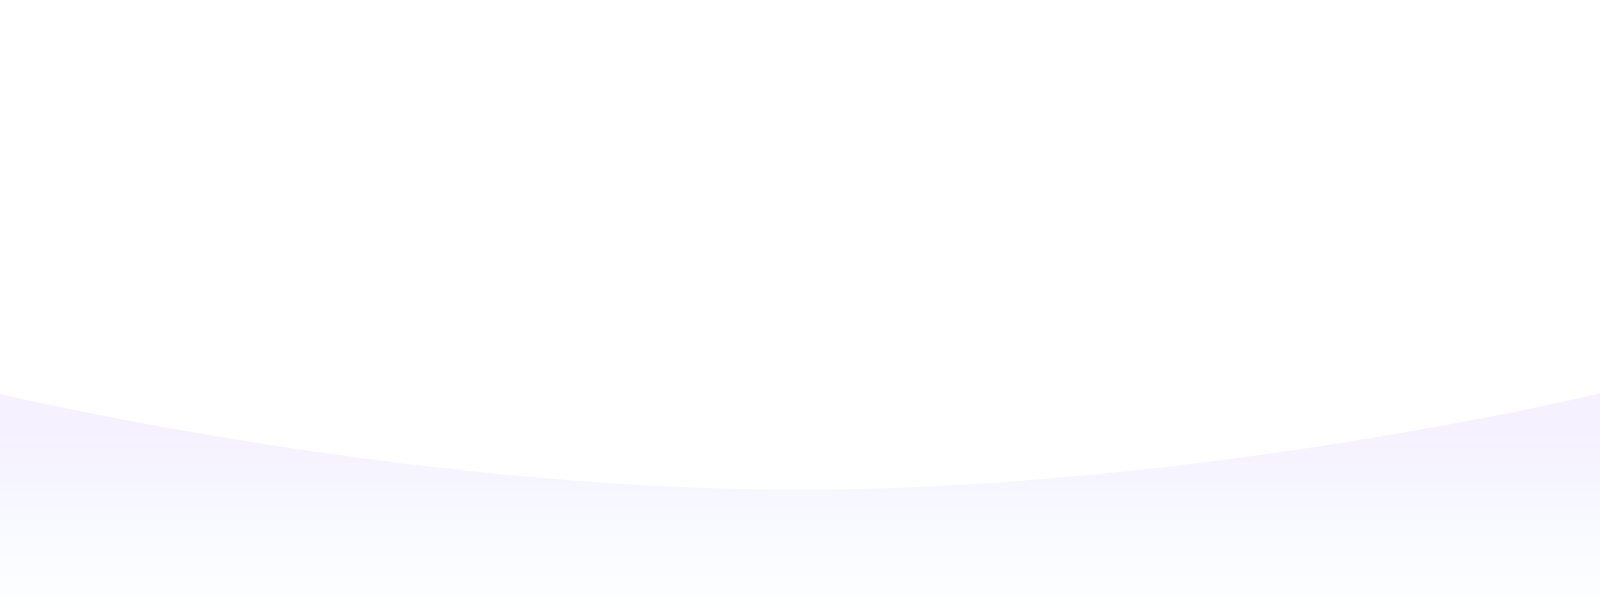
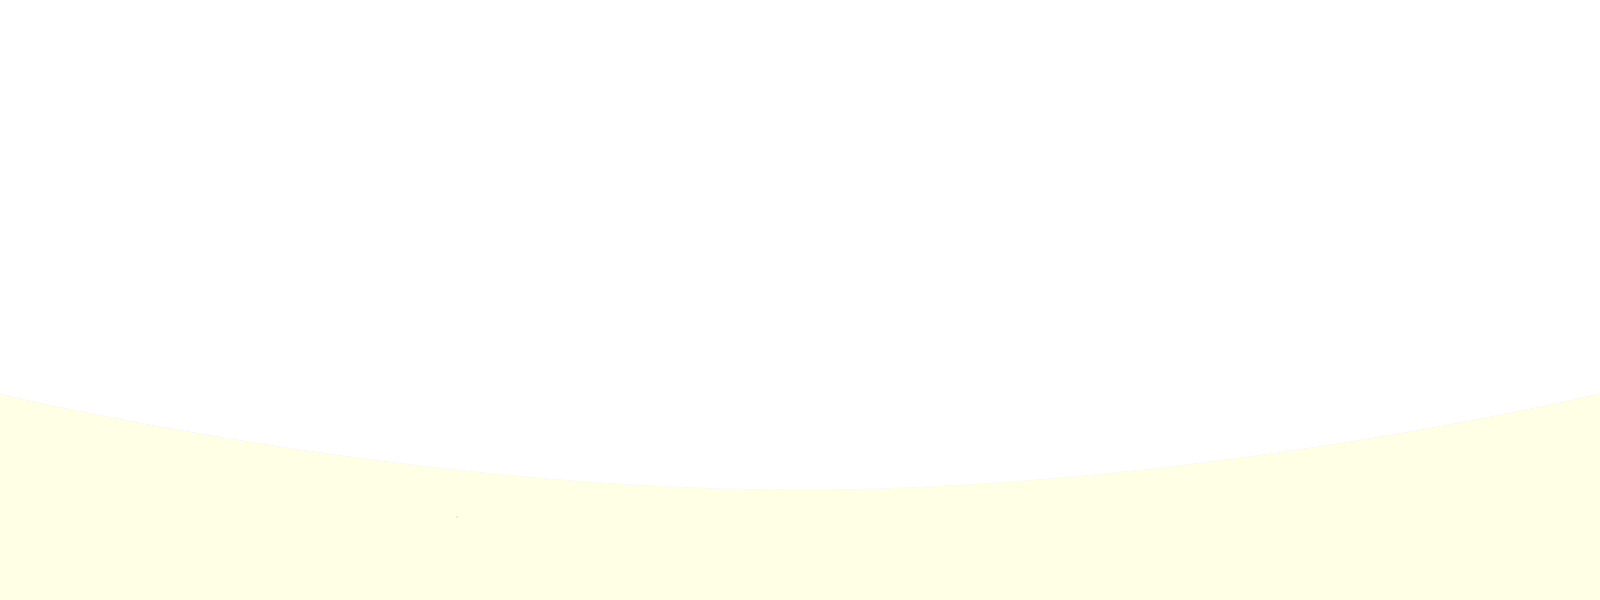
added Changes to Contact Us Section

Changed region(s): [[0.0, 0.66, 1.0, 1.0]]

diff --git a/css/sofbox-style.css b/css/sofbox-style.css
@@ -107,7 +107,7 @@ table td, table th { border: 1px solid #eaeaea; padding: 5px 8px; text-align: ce
 
 /* Form */
 label { color: #1e1e1e; margin-bottom: 0; }
-input, input[type=text], input[type=email], input[type=search], input[type=password], textarea { width: 100%; float: left; padding: 0 15px; height: 48px; line-height: 48px; background: #ffffff; border: 1px solid #eff1fe; -webkit-border-radius: 4px; -moz-border-radius: 4px; border-radius: 4px; color: #8e989f; transition: all 0.5s ease-in-out; transition: all 0.5s ease-in-out; -moz-transition: all 0.5s ease-in-out; -ms-transition: all 0.5s ease-in-out; -o-transition: all 0.5s ease-in-out; -webkit-transition: all 0.5s ease-in-out; }
+input, input[type=text], input[type=email], input[type=search], input[type=password], textarea { width: 100%; float: left; padding: 0 15px; height: 48px; line-height: 48px; background: #ffffff; border: 1px solid #F2C74A; -webkit-border-radius: 4px; -moz-border-radius: 4px; border-radius: 4px; color: #8e989f; transition: all 0.5s ease-in-out; transition: all 0.5s ease-in-out; -moz-transition: all 0.5s ease-in-out; -ms-transition: all 0.5s ease-in-out; -o-transition: all 0.5s ease-in-out; -webkit-transition: all 0.5s ease-in-out; }
 select { border: 1px solid rgba(36, 38, 43, 0.14); background: #ffffff; line-height: 48px; height: 48px; padding: 0 10px; width: 100%; color: #8e989f; -webkit-border-radius: 0; -moz-border-radius: 0; border-radius: 0; transition: all 0.5s ease-in-out; -moz-transition: all 0.5s ease-in-out; -ms-transition: all 0.5s ease-in-out; -o-transition: all 0.5s ease-in-out; -webkit-transition: all 0.5s ease-in-out; }
 textarea { padding: 0 15px; height: 150px; -webkit-border-radius: 4px; -moz-border-radius: 4px; border-radius: 4px; }
 input:focus, input[type=text]:focus, input[type=email]:focus, input[type=search]:focus, input[type=password]:focus, textarea:focus, select:focus { border-color: var(--primary-color); box-shadow: none; outline: none; }
@@ -161,7 +161,7 @@ article.hentry.format-video .consult-detail p { margin-bottom: 0; }
 -----------------------------------------------------------------------*/
 .error-bg { float: left; width: 100%; display: block; }
 .error-404 .big-text { font-size: 240px; font-family: 'Now', sans-serif;; line-height: 240px; color: #1e1e1e; font-weight: normal; }
-.sofbox-gradient-bg-top:before ,.sofbox-gradient:before{content: ""; background: -webkit-gradient(linear, left top, left bottom, color-stop(0%, #f5f2ff), color-stop(60%, #ffffff)); background: -moz-linear-gradient(top, rgba(50, 119, 247, 0.08) 0, #ffffff 60%); background: -webkit-linear-gradient(top, rgba(50, 119, 247, 0.08) 0, #ffffff 60%); background: -o-linear-gradient(top, rgba(50, 119, 247, 0.08) 0, #ffffff 60%); background: -ms-linear-gradient(top, rgba(50, 119, 247, 0.08) 0, #ffffff 60%); background: linear-gradient(top, rgba(50, 119, 247, 0.08) 0, #ffffff 60%); position: absolute; width: 100%; height: 100%; top: 0; left: 0; z-index: -1; }
+.sofbox-gradient-bg-top:before ,.sofbox-gradient:before{content: ""; background: -webkit-gradient(linear, left top, left bottom, color-stop(0%, #f5f2ff), color-stop(60%, #ffffff)); background: -moz-linear-gradient(top, rgba(187, 187, 187, 0.5) 0, #ffffff 60%); background: -webkit-linear-gradient(top, rgba(187, 187, 187, 0.5) 0, #ffffff 60%); background: -o-linear-gradient(top, rgba(187, 187, 187, 0.5) 0, #ffffff 60%); background: -ms-linear-gradient(top, rgba(187, 187, 187, 0.5) 0, #ffffff 60%); background: linear-gradient(top, rgba(187, 187, 187, 0.5) 0, #ffffff 60%); position: absolute; width: 100%; height: 100%; top: 0; left: 0; z-index: -1; }
 .sofbox-gradient-bg-dark, .sofbox-gradient-bg-top, .sofbox-gradient-bg-bottom,.sofbox-gradient { position: relative; }
 .sofbox-gradient-bg-dark:before {content: ""; background: -webkit-gradient(linear, left top, left bottom, color-stop(0%, rgba(50, 119, 247, 0.08)), color-stop(60%, #ffffff)); background: -moz-linear-gradient(top, rgba(50, 119, 247, 0.08) 80%, #ffffff 100%); background: -webkit-linear-gradient(top, rgba(50, 119, 247, 0.08) 80%, #ffffff 100%); background: -o-linear-gradient(top, rgba(50, 119, 247, 0.08) 80%, #ffffff 100%); background: -ms-linear-gradient(top, rgba(50, 119, 247, 0.08) 80%, #ffffff 100%); background: linear-gradient(top, rgba(50, 119, 247, 0.08) 80%, #ffffff 100%); position: absolute; width: 100%; height: 100%; top: 0; left: 0; z-index: -1; }
 .sofbox-gradient-bg-bottom { background: -webkit-gradient(linear, left top, left bottom, color-stop(0%, rgba(50, 119, 247, 0.08)), color-stop(60%, #ffffff)); background: -moz-linear-gradient(bottom, rgba(50, 119, 247, 0.08) 0, #ffffff 60%); background: -webkit-linear-gradient(bottom, rgba(50, 119, 247, 0.08) 0, #ffffff 60%); background: -o-linear-gradient(bottom, rgba(50, 119, 247, 0.08) 0, #ffffff 60%); background: -ms-linear-gradient(bottom, rgba(50, 119, 247, 0.08) 0, #ffffff 60%); background: linear-gradient(bottom, rgba(50, 119, 247, 0.08) 0, #ffffff 60%); }
@@ -1575,7 +1575,7 @@ Advance-Feature
 .advance-feature [type="checkbox"]:checked + label,.advance-feature [type="checkbox"]:not(:checked) + label { position: relative; padding-left: 28px; cursor: pointer; line-height: 20px; display: inline-block; color: #666; }
 .advance-feature [type="checkbox"]:checked + label:before,.advance-feature [type="checkbox"]:not(:checked) + label:before { content: ''; position: absolute; left: 0; top: 0; width: 20px; height: 20px; border: 2px solid var(--primary-color); background: #fff; border-radius: 90px; }
 .advance-feature [type="checkbox"]:checked + label:after,.advance-feature [type="checkbox"]:not(:checked) + label:after { content: ''; width: 4px; height: 4px; background: var(--primary-color); position: absolute; top: 8px; left: 8px; border-radius: 90px; -webkit-transition: all 0.2s ease; transition: all 0.2s ease; }
-.advance-feature .form-control:disabled, .advance-feature .form-control[readonly] { background: #ffffff; border-radius: 4px; }
+.advance-feature .form-control:disabled, .advance-feature .form-control[readonly] { background: #ffffff; border-radius:4px; }
 .advance-feature [type="checkbox"]:not(:checked) + label:after { opacity: 0; -webkit-transform: scale(0); transform: scale(0); }
 .advance-feature [type="checkbox"]:checked + label:after { opacity: 1; -webkit-transform: scale(1); transform: scale(1); }
 
@@ -1701,16 +1701,16 @@ Job details
 -----------------------------------------------------------------------*/
 .share-social li a {width: 40px;
     height: 40px;
-    line-height: 40px; display: inline-block; color: var(--primary-color); -webkit-transition: all 0.25s ease-in-out 0s; -moz-transition: all 0.25s ease-in-out 0s; transition: all 0.25s ease-in-out 0s; }
+    line-height: 40px; display: inline-block; color: var(--secondary-color); -webkit-transition: all 0.25s ease-in-out 0s; -moz-transition: all 0.25s ease-in-out 0s; transition: all 0.25s ease-in-out 0s; }
 .share-social li:hover a { color: #ffffff; }
-.share-social li { display: inline-block !important; width: 40px; height: 40px; line-height: 40px; border-radius: 4px; text-align: center; margin-right: 10px; -webkit-transition: all 0.25s ease-in-out 0s; -moz-transition: all 0.25s ease-in-out 0s; transition: all 0.25s ease-in-out 0s; background: #ffffff; border: 1px solid rgba(0, 0, 0, 0.05); }
+.share-social li { display: inline-block !important; width: 40px; height: 40px; line-height: 40px; border-radius: 40px; text-align: center; margin-right: 10px; -webkit-transition: all 0.25s ease-in-out 0s; -moz-transition: all 0.25s ease-in-out 0s; transition: all 0.25s ease-in-out 0s; background: rgb(242, 199, 74); border: none; }
 .deatils-social span { color: #1e1e1e ;font-family: 'Now'; }
 .share-social li:hover { background-size: 200% auto; background-image: linear-gradient(to right, var(--linear-color-1) 0%, var(--linear-color-2) 51%, var(--linear-color-3) 100%); box-shadow: var(--primary-box-shadow); }
 
 /*---------------------------------------------------------------------
 Careers
 -----------------------------------------------------------------------*/
-.iq-accordion.career-style .active-faq .row { background: #eff1fe; padding: 10px; border-radius: 4px; }
+.iq-accordion.career-style .active-faq .row { background: #f2c74a; padding: 10px; border-radius: 4px; }
 .iq-accordion.career-style .active-faq a.accordion-title { color: #1e1e1e; padding-left: 0px; text-decoration: none; }
 .iq-accordion.career-style .iq-accordion-block { margin-bottom: 30px; }
 .iq-accordion.career-style .iq-accordion-block .accordion-title span { font-size: 20px;  font-family: 'Now'; display: table-cell; }

diff --git a/index-7.html b/index-7.html
@@ -511,7 +511,7 @@
 		--><rs-layer
 		id="slider-3-slide-3-layer-7"
 		data-type="text"
-		data-color="#F29A49"
+		data-color="#1e1e1e"
 		data-rsp_ch="on"
 		data-xy="xo:49px,49px,-82px,-76px;yo:261px,261px,182px,113px;"
 		data-text="w:normal;s:16,16,20,12;l:45,45,24,14;a:center;"
@@ -521,14 +521,14 @@
 		data-frame_0="sX:0.9;sY:0.9;"
 		data-frame_1="st:3030;sp:1000;sR:3030;"
 		data-frame_999="o:0;st:w;sR:4970;"
-		data-frame_hover="c:#fff;bgc:#F29A49;bor:90px,90px,90px,90px;"
-		style="z-index:12;background-color:#ffffe6;font-family:Roboto;cursor:pointer;"
+		data-frame_hover="box-shadow:0px 10px 20px 0px rgba(242, 199, 74, 0.5)"
+		style="z-index:12;background-color:#f2c74a;font-family:Roboto;cursor:pointer;"
 		><i class="fa fa-facebook" aria-hidden="true"></i>
 		</rs-layer><!--
 		--><rs-layer
 		id="slider-3-slide-3-layer-8"
 		data-type="text"
-		data-color="#F29A49"
+		data-color="#1e1e1e"
 		data-rsp_ch="on"
 		data-xy="xo:49px,49px,-115px,-80px;yo:322px,322px,241px,148px;"
 		data-text="w:normal;s:16,16,20,12;l:45,45,24,14;a: center;"
@@ -538,14 +538,14 @@
 		data-frame_0="sX:0.9;sY:0.9;"
 		data-frame_1="st:3010;sp:1000;sR:3010;"
 		data-frame_999="o:0;st:w;sR:4990;"
-		data-frame_hover="c:#fff;bgc:#F29A49;bor:90px,90px,90px,90px;"
-		style="z-index:10;background-color:#ffffe6;font-family:Roboto;cursor:pointer;"
+		data-frame_hover="box-shadow:0px 10px 20px 0px rgba(242, 199, 74, 0.5)"
+		style="z-index:10;background-color:#f2c74a;font-family:Roboto;cursor:pointer;;"
 		><i class="fa fa-linkedin" aria-hidden="true"></i>
 		</rs-layer><!--
 		--><rs-layer
 		id="slider-3-slide-3-layer-9"
 		data-type="text"
-		data-color="#F29A49"
+		data-color="#1e1e1e"
 		data-rsp_ch="on"
 		data-xy="xo:49px,49px,-89px,-68px;yo:199px,199px,116px,72px;"
 		data-text="w:normal;s:16,16,20,12;l:45,45,24,14;a:center;"
@@ -555,8 +555,8 @@
 		data-frame_0="sX:0.9;sY:0.9;"
 		data-frame_1="st:3030;sp:1000;sR:3030;"
 		data-frame_999="o:0;st:w;sR:4970;"
-		data-frame_hover="c:#fff;bgc:#F29A49;bor:90px,90px,90px,90px;"
-		style="z-index:11;background-color:#ffffe6;font-family:Roboto;cursor:pointer;"
+		data-frame_hover="box-shadow:0px 10px 20px 0px rgba(242, 199, 74, 0.5)"
+		style="z-index:11;background-color:#f2c74a;font-family:Roboto;cursor:pointer;"
 		><i class="fa fa-twitter" aria-hidden="true"></i>
 		</rs-layer><!--
 		--><rs-layer
@@ -1123,13 +1123,12 @@
 			<div class="col-lg-12">
 				<div class="title-box">
 					<h2>Contact Us</h2>
-					<p>If you are planning on developing a product landing.</p>
-				</div>
+                </div>
 			</div>
 		</div>
 		<div class="row">
 			<div class="col-lg-6">
-			    <img class="img-fluid" src="images/home-1/WhatsBusy_logo.png" alt="img" width="80" height="90">
+			    <img class="img-fluid" src="images/home-1/WhatsBusy_logo.png" alt="img" width="100" height="100">
 					<h5 class="mb-3 mt-5">12 Water Mark Way, The Woodlands, TX 77381</h5>
 					<p class="mb-0">+1 415 797 4210</p>
 					<p class="mb-0">
@@ -1148,22 +1147,21 @@
 			<div class="col-lg-6">
 				<div class="">
 					<h4 class="mb-4">Get in Touch</h4>
-					<form  class="contact-form" method="POST" action ="?" >
+					<form  class="contact-form" method="POST" action ="https://formspree.io/xknpwvbo" >
 						<div class="row">
-							<div class="col-lg-6">  <input type="text" class="form-control" id="inputName" placeholder="Your Name" required> </div>
-							<div class="col-lg-6">   <input type="Email" class="form-control" id="inputEmail" placeholder="Your Email" required></div>
-							<div class="col-lg-12">  <input type="text" class="form-control" id="inputSubject" placeholder="Your Subject" required></div>
-							<div class="col-lg-12"> <textarea class="form-control" id="exampleFormControlTextarea1" rows="7" placeholder="Your Message" required></textarea>
-							</div>
+							<div class="col-sm-6"><input type="text" class="form-control" id="inputName" placeholder="Your Name" required name="_name"> </div>
+							<div class="col-sm-6"><input type="Email" class="form-control" id="inputEmail" placeholder="Your Email" required name="_email"></div>
+							<div class="col-sm-12"><input type="text" class="form-control" id="inputSubject" placeholder="Your Subject" required name="_subject"></div>
+							<div class="col-sm-12"><textarea class="form-control" id="exampleFormControlTextarea1" rows="7" placeholder="Your Message" required name="_comments"></textarea></div>
 						<div class="row">
 	                    <div class="col-md-12">
 							<div class="form-group">
 								<div class="g-recaptcha" data-sitekey="6Le-m8oZAAAAAFLlQR_N8MGo8u49T2H4hkmRLUHv"></div>
 							</div>
 						</div>
-					</div>
+						</div>
 							<div class="col-lg-12">
-								<a class="button" href="">Send Message</a>
+								<input type="submit" value="Send Message"></input>
 							</div>
 						</div>
 					</form>
@@ -1178,7 +1176,7 @@
 <footer id="iq-contact" class="iq-footer footer-shap footer-one iq-over-dark-90 position-relative">
 	<div class="container">
 		<div class="footer-top">
-			<div class="row align-items-center sofbox-subscribe">
+			<!--<div class="row align-items-center sofbox-subscribe">
 				<div class="col-lg-5   col-sm-12 title-fancy mb-5 mb-lg-0">
 					<h4 class="footer-title">Ready to get started?</h4>
 					<p class="mb-0">It is a long established fact that a page when looking at its layout.</p>
@@ -1187,7 +1185,7 @@
 					<input type="Email" class="form-control" id="inputEmail" placeholder="Your Email">
 					<a class="button sign-btn" href="">Sign up</a>
 				</div>
-			</div>
+			</div>--!>
 		</div>
 		<div class="row">
 			<div class="col-lg-5 col-md-6 col-sm-6 ">

diff --git a/css/typography.css b/css/typography.css
@@ -57,7 +57,7 @@ import Css
   --linear-color-2: rgb(163, 120, 252);
   --linear-color-3: rgb(109, 115, 239, 0.8);
 
-  --primary-box-shadow: 0px 10px 20px 0px rgba(139, 118, 246, 0.4);
+  --primary-box-shadow: 0px 10px 20px 0px rgba(242, 199, 74, 0.5);
 
   --title-font-family: 'Now', sans-serif;
   --body-font-family: 'Poppins', sans-serif;
@@ -153,7 +153,7 @@ color: #ffffff; }
 color: #ffffff; }
 :-moz-placeholder { /* Firefox 18- */
 color: #ffffff; }
-textarea.form-control, textarea { background: none; height: 230px; padding: 15px 15px; margin-bottom: 30px; -webkit-border-radius: 5px; -moz-border-radius: 5px; border-radius: 5px; border: 2px solid #eff1fe; }
+textarea.form-control, textarea { background: none; height: 230px; padding: 15px 15px; margin-bottom: 30px; -webkit-border-radius: 5px; -moz-border-radius: 5px; border-radius: 5px; border: 1px solid #F2C74A; }
 input:hover, input.form-control:hover, input:focus, input.form-control:focus, textarea.form-control:hover, textarea.form-control:focus, textarea:hover, textarea:focus { border: 2px solid var(--primary-color); background: none; outline: 0; box-shadow: none;  }
 
 /*----------------------------------------------------------------------
